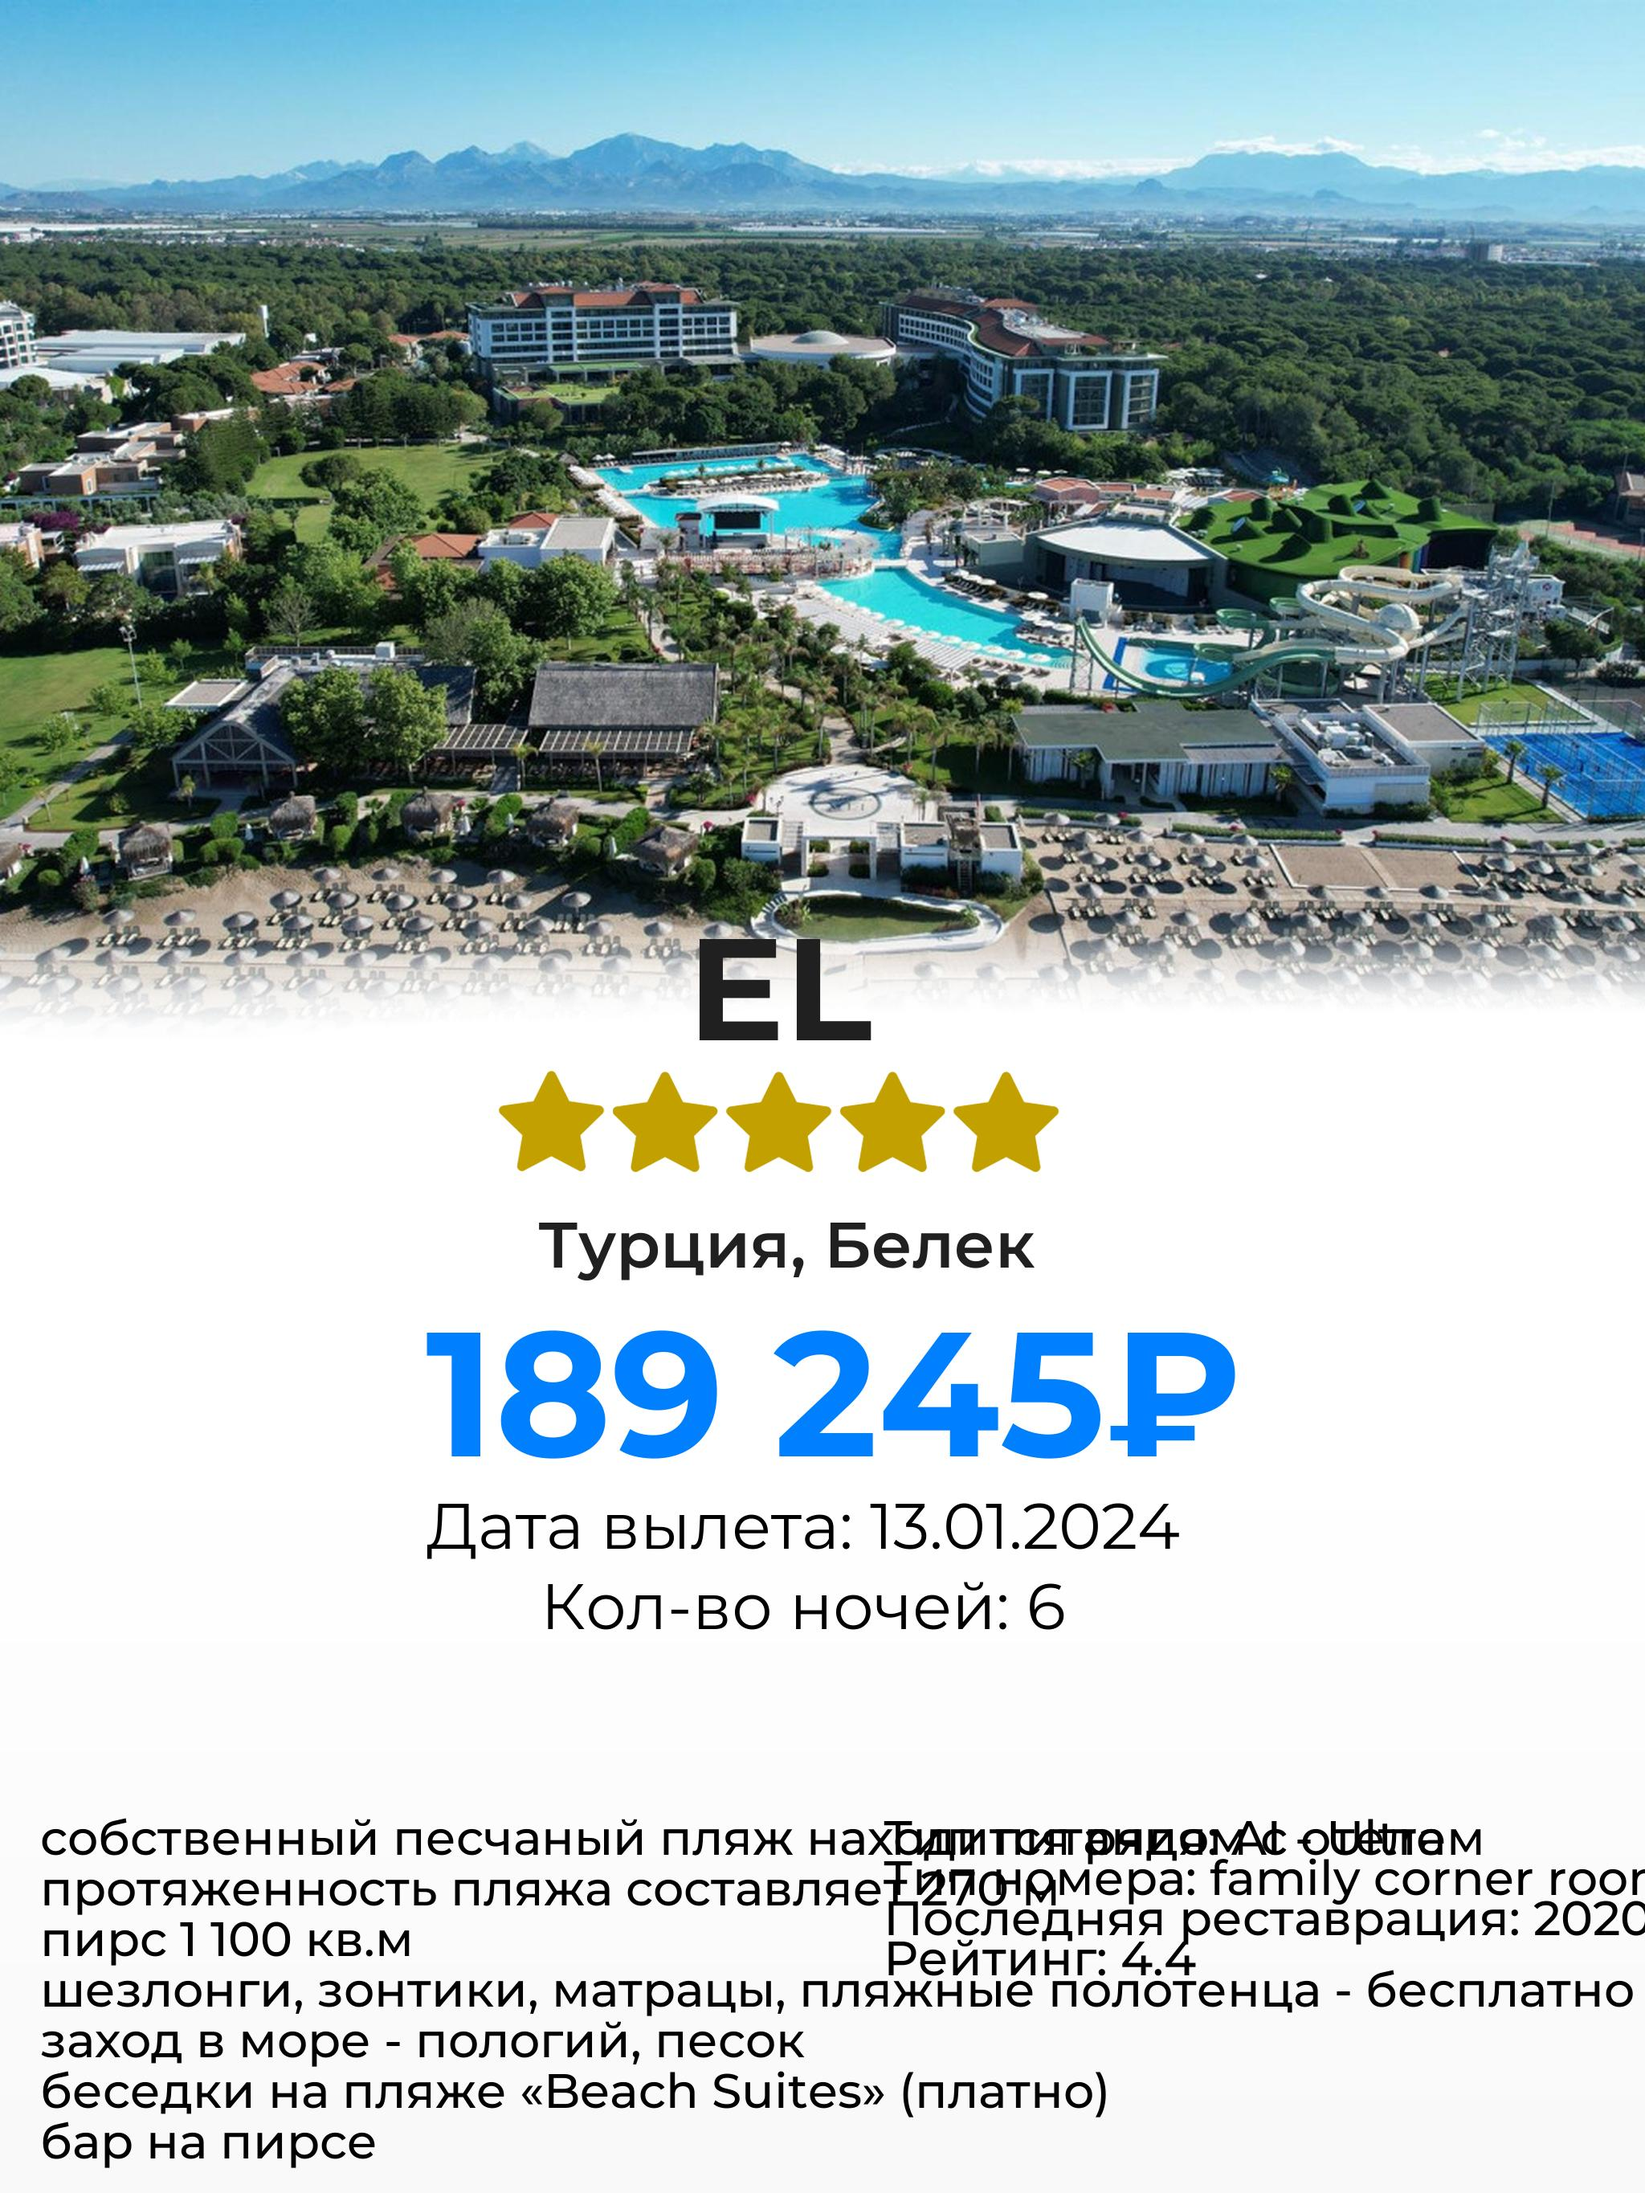
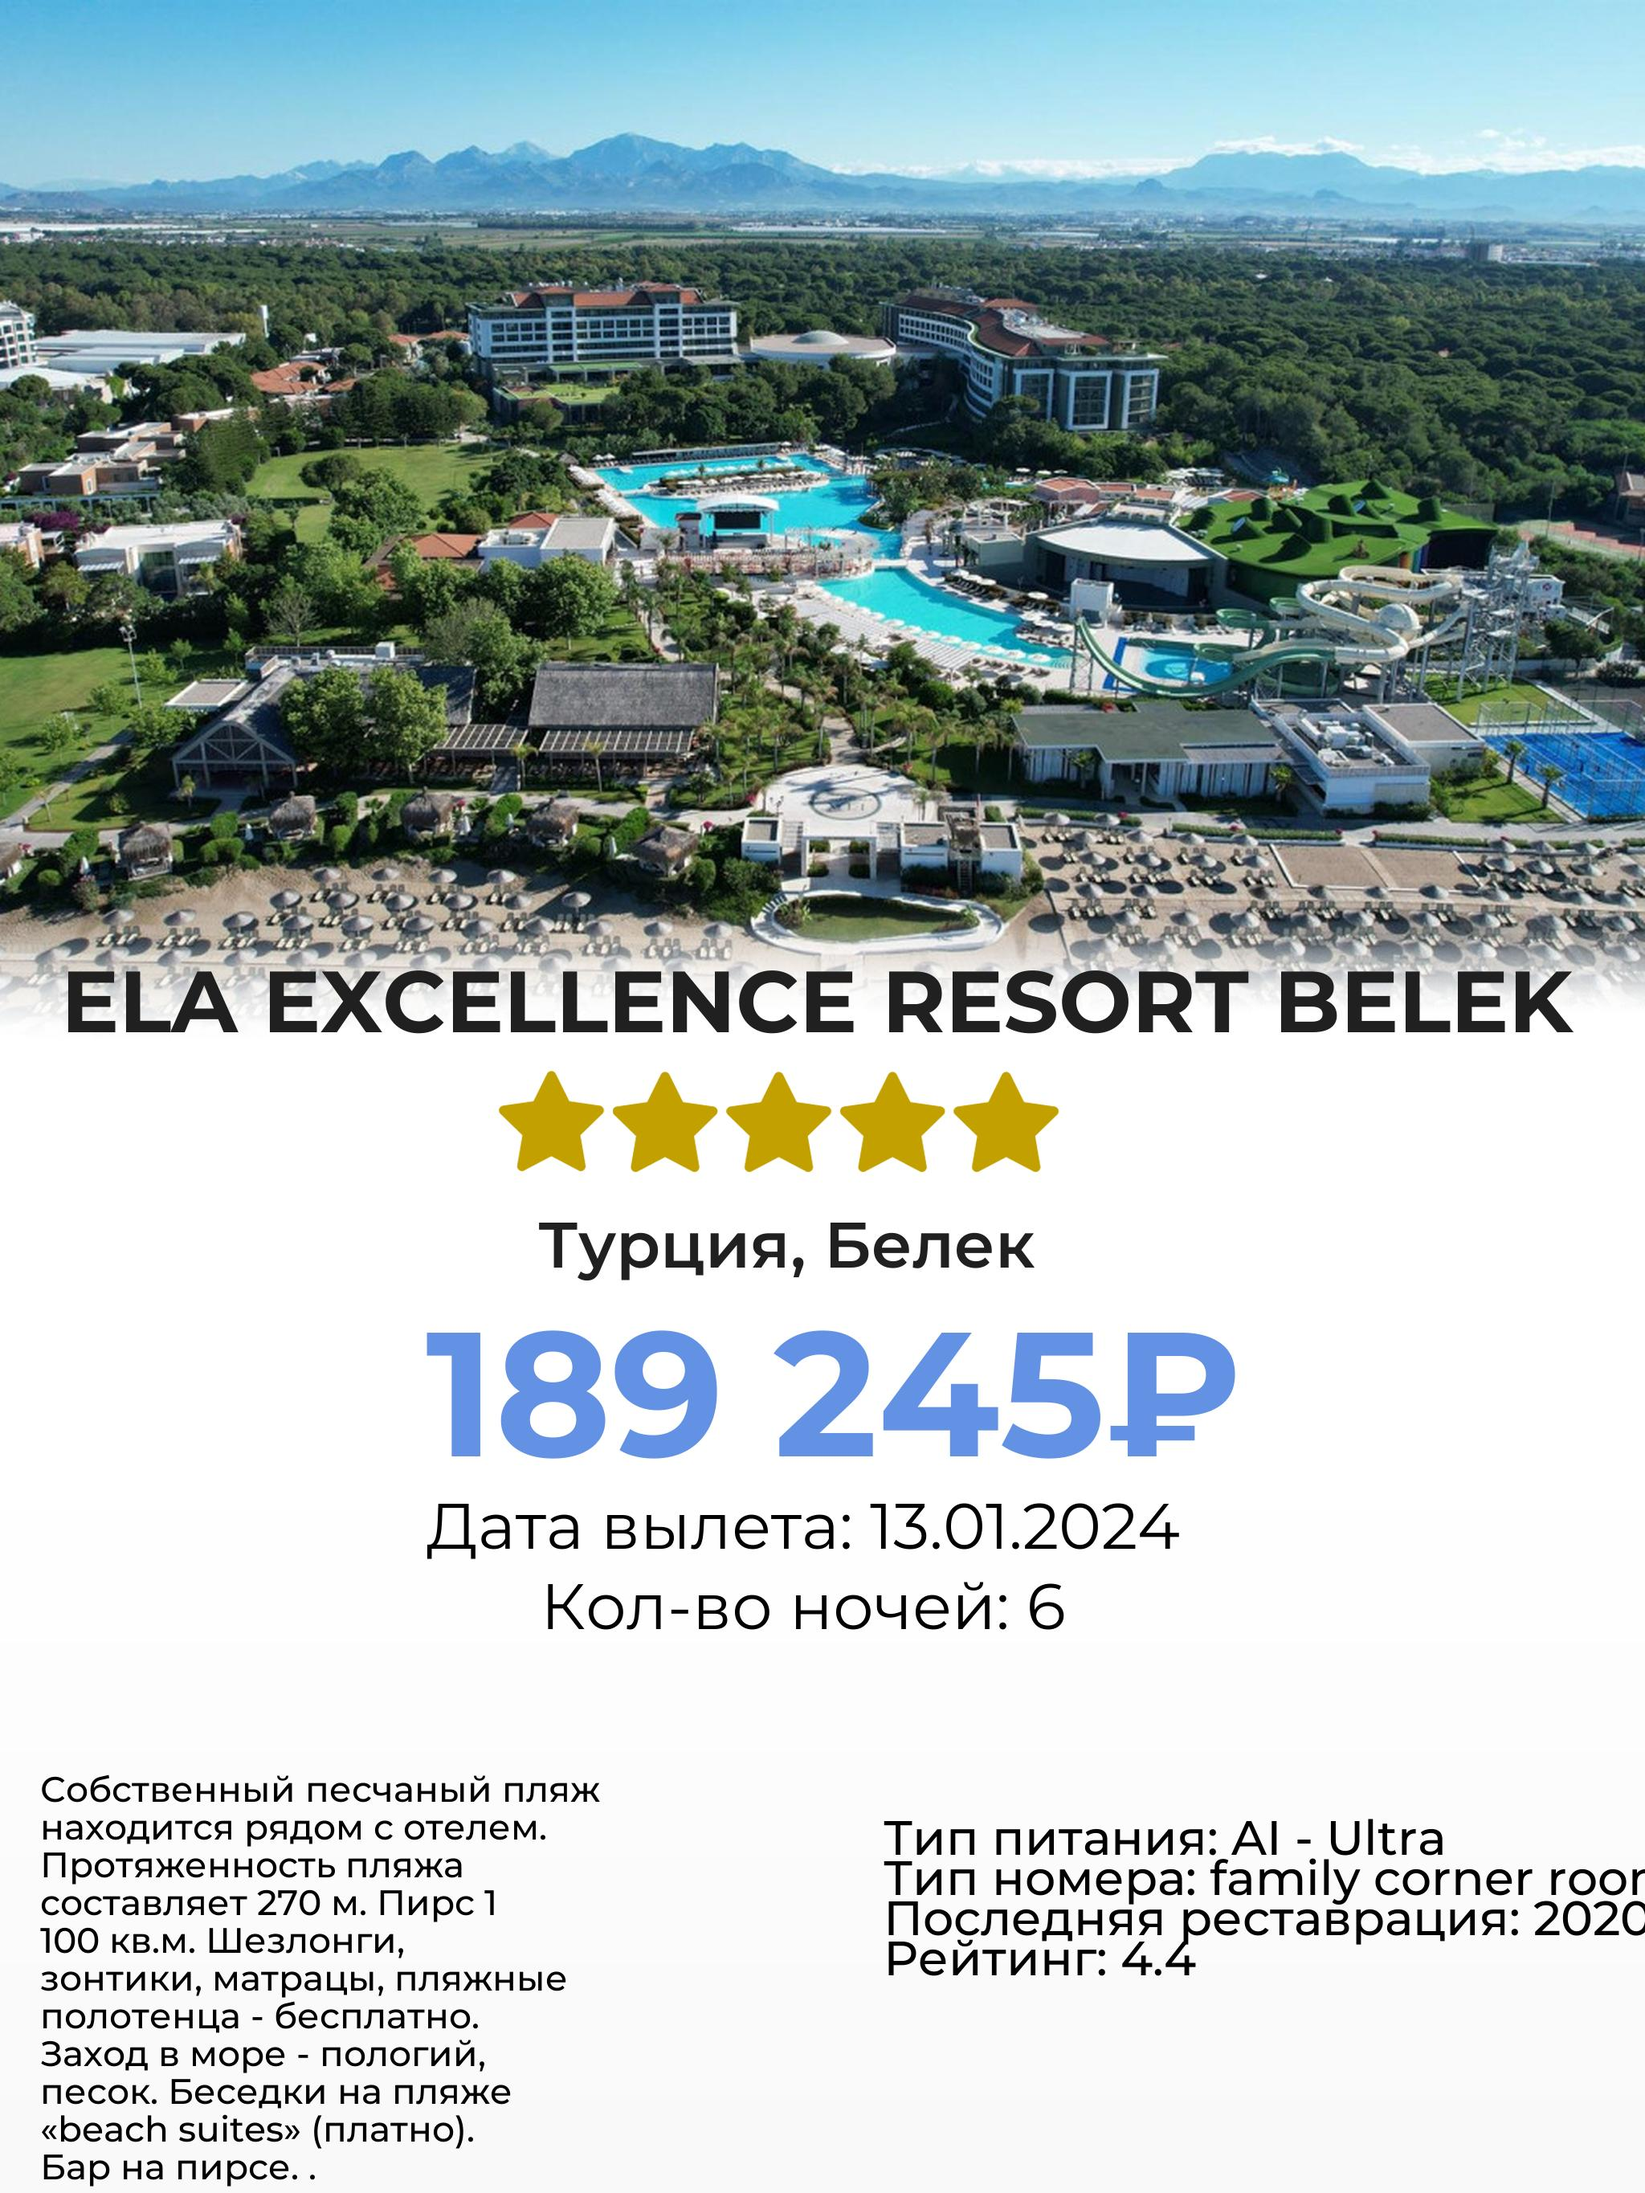
font now can change dinamically as well as the size of hotel's name

diff --git a/main.py b/main.py
@@ -5,6 +5,7 @@ from idlelib import editor
 from PIL import Image, ImageDraw, ImageFont
 import customtkinter
 import requests
+import textwrap
 import json
 import re
 import os
@@ -242,16 +243,57 @@ def button_function_create():
     # Создаем объект ImageDraw для нового изображения
     draw = ImageDraw.Draw(new_image)
 
+    def name_size(hotel_name):
+        length = len(hotel_name)
+        size = 180
+        size -= (length - 16) * 6
+
+        return size
+
+    if len(hotel_name) <= 16:
+        bold_name = ImageFont.truetype("fonts/Montserrat-Bold.ttf", 180)  # hotel's font
+    else:
+        bold_name = ImageFont.truetype("fonts/Montserrat-Bold.ttf", name_size(hotel_name))  # hotel's font
+
     # Загружаем шрифт
-    bold_name = ImageFont.truetype("fonts/Montserrat-Bold.ttf", 180) # hotel's font
     bold_price = ImageFont.truetype("fonts/Montserrat-Bold.ttf", 220) # price's font
     semibold = ImageFont.truetype("fonts/Montserrat-SemiBold.ttf", 80) # country's name/resort
     regular = ImageFont.truetype("fonts/Montserrat-Regular.ttf", 80) # departure date/number of nights
     medium = ImageFont.truetype("fonts/Montserrat-Medium.ttf", 60) # beach info/hotel info
 
     def draw_centered_text(draw, text, y, font, fill=(0, 0, 0)):
+        """
+        Draws text in the center
+        :param draw:
+        :param text:
+        :param y:
+        :param font:
+        :param fill:
+        :return: None
+        """
         text_width, _ = font.getsize(text)
         x = (new_image.width - text_width) // 2
+        draw.text((x, y), text, fill=fill, font=font)
+
+    def draw_centered_hotel_name(draw, text, y, x, font, fill=(0, 0, 0)):
+        """
+        Draws hotel's name in the center based on its length
+        :param draw:
+        :param text:
+        :param y:
+        :param x:
+        :param font:
+        :param fill:
+        :return: None
+        """
+        if len(hotel_name) <= 16:
+            text_width, _ = font.getsize(text)
+            x = (new_image.width - text_width) // 2
+        else:
+            text_width, _ = font.getsize(text)
+            x = (new_image.width - text_width) // 2
+            x += 25
+            y += (len(hotel_name) - 16) * 5
         draw.text((x, y), text, fill=fill, font=font)
 
     # # Вычисляем ширину текста
@@ -261,9 +303,10 @@ def button_function_create():
     # # Добавляем текст на изображение
     # draw.text((x, 1120), hotel_name, fill=(32, 32, 32), font=bold_name)
 
-    draw_centered_text(draw, hotel_name, 1120, bold_name, fill=(32, 32, 32))
+    draw_centered_hotel_name(draw, hotel_name, 1120, 600, bold_name, fill=(32, 32, 32))
 
     def draw_stars(stars):
+
         """
         This func draws stars on the final image
         :param stars:
@@ -282,15 +325,48 @@ def button_function_create():
     # draw.text((650, 1000), resort_name, fill="black", font=semibold)
     # draw_centered_text(draw, country, 1500, semibold, fill=(32, 32, 32))
 
-    draw.text((530, 1600), price, fill=(0, 128, 255), font=bold_price)
+    draw.text((530, 1600), price, fill=(99,145,227), font=bold_price)
     # draw_centered_text(draw, price, 1600, bold_price, fill=(0, 128, 255))
     # draw.text((540, 1850), departure_date, fill="black", font=regular)
     draw_centered_text(draw, departure_date, 1850, regular, fill="black")
     # draw.text((640, 1950), number_of_nights, fill="black", font=regular)
     draw_centered_text(draw, number_of_nights, 1950, regular, fill="black")
 
-    draw.text((50, 2250), beach, fill="black", font=medium)
+    # draw.text((50, 2250), beach, fill="black", font=medium)
 
+    def format_text(text, max_width):
+        """
+        Make first letters uppercase.
+        Place dots at the end of every line.
+        Move text to the next line if the line is too long.
+        :param text:
+        :param max_width:
+        :return: beach info text
+        """
+        text = "\n".join([s.capitalize() + '.' if not s.endswith('.') else s.capitalize() for s in text.split('\n')])
+        lines = textwrap.wrap(text, width=max_width)
+        return '\n'.join(lines)
+
+    def adjust_font_size(draw, text, max_lines, font, fill=(0, 0, 0)):
+        lines = text.split('\n')
+        excess_lines = len(lines) - max_lines
+        if excess_lines > 0:
+            # Уменьшаем размер шрифта
+            font_size = font.size - excess_lines * 16  # уменьшаем на 10 единиц для каждой лишней строки
+            font = ImageFont.truetype(font.path, font_size)
+
+            # Переформатируем текст с новым размером шрифта
+            formatted_text = format_text(text, font.getsize('A')[0] * max_width)
+            lines = formatted_text.split('\n')
+
+        return font
+
+    y = 2200
+    max_width = 25  # максимальное количество символов в строке
+    max_lines = 10  # максимальное количество строк
+    formatted_text = format_text(beach, max_width)
+    adjusted_font = adjust_font_size(draw, formatted_text, max_lines, medium)
+    draw.text((50, y), formatted_text, fill="black", font=adjusted_font)
 
     draw.text((1100, 2250), type_of_food, fill="black", font=medium)
 
@@ -306,6 +382,7 @@ def button_function_create():
     # Сохраняем новое изображение
     new_image.save("Hotel-Brochure-Builder/tmp/output/final_image.jpg")
 
+    print(beach)
     # print(country, departure_date, number_of_nights, room_type, type_of_food, price, rating, hotel_name, stars, resort_name, beach, year_restoration, sep="")
 
 def format_price(price):
